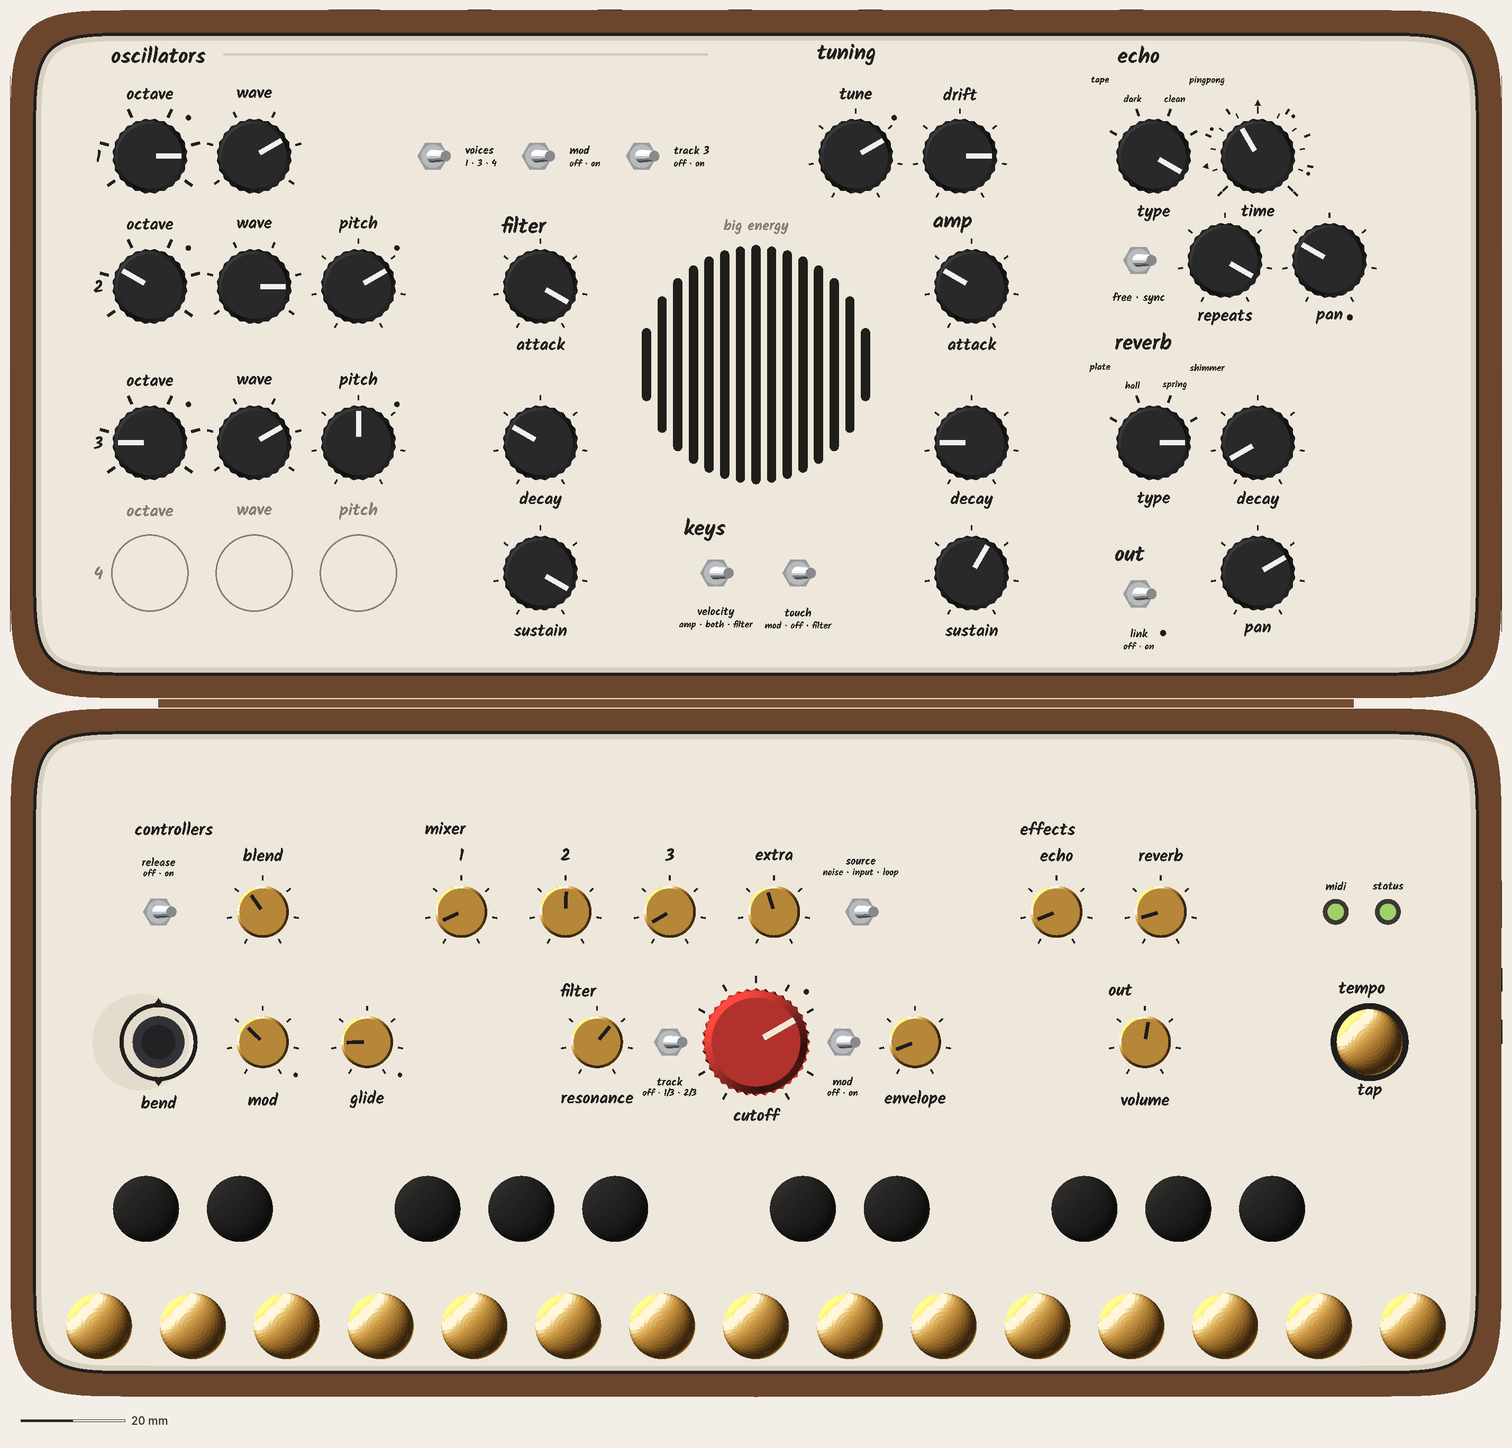
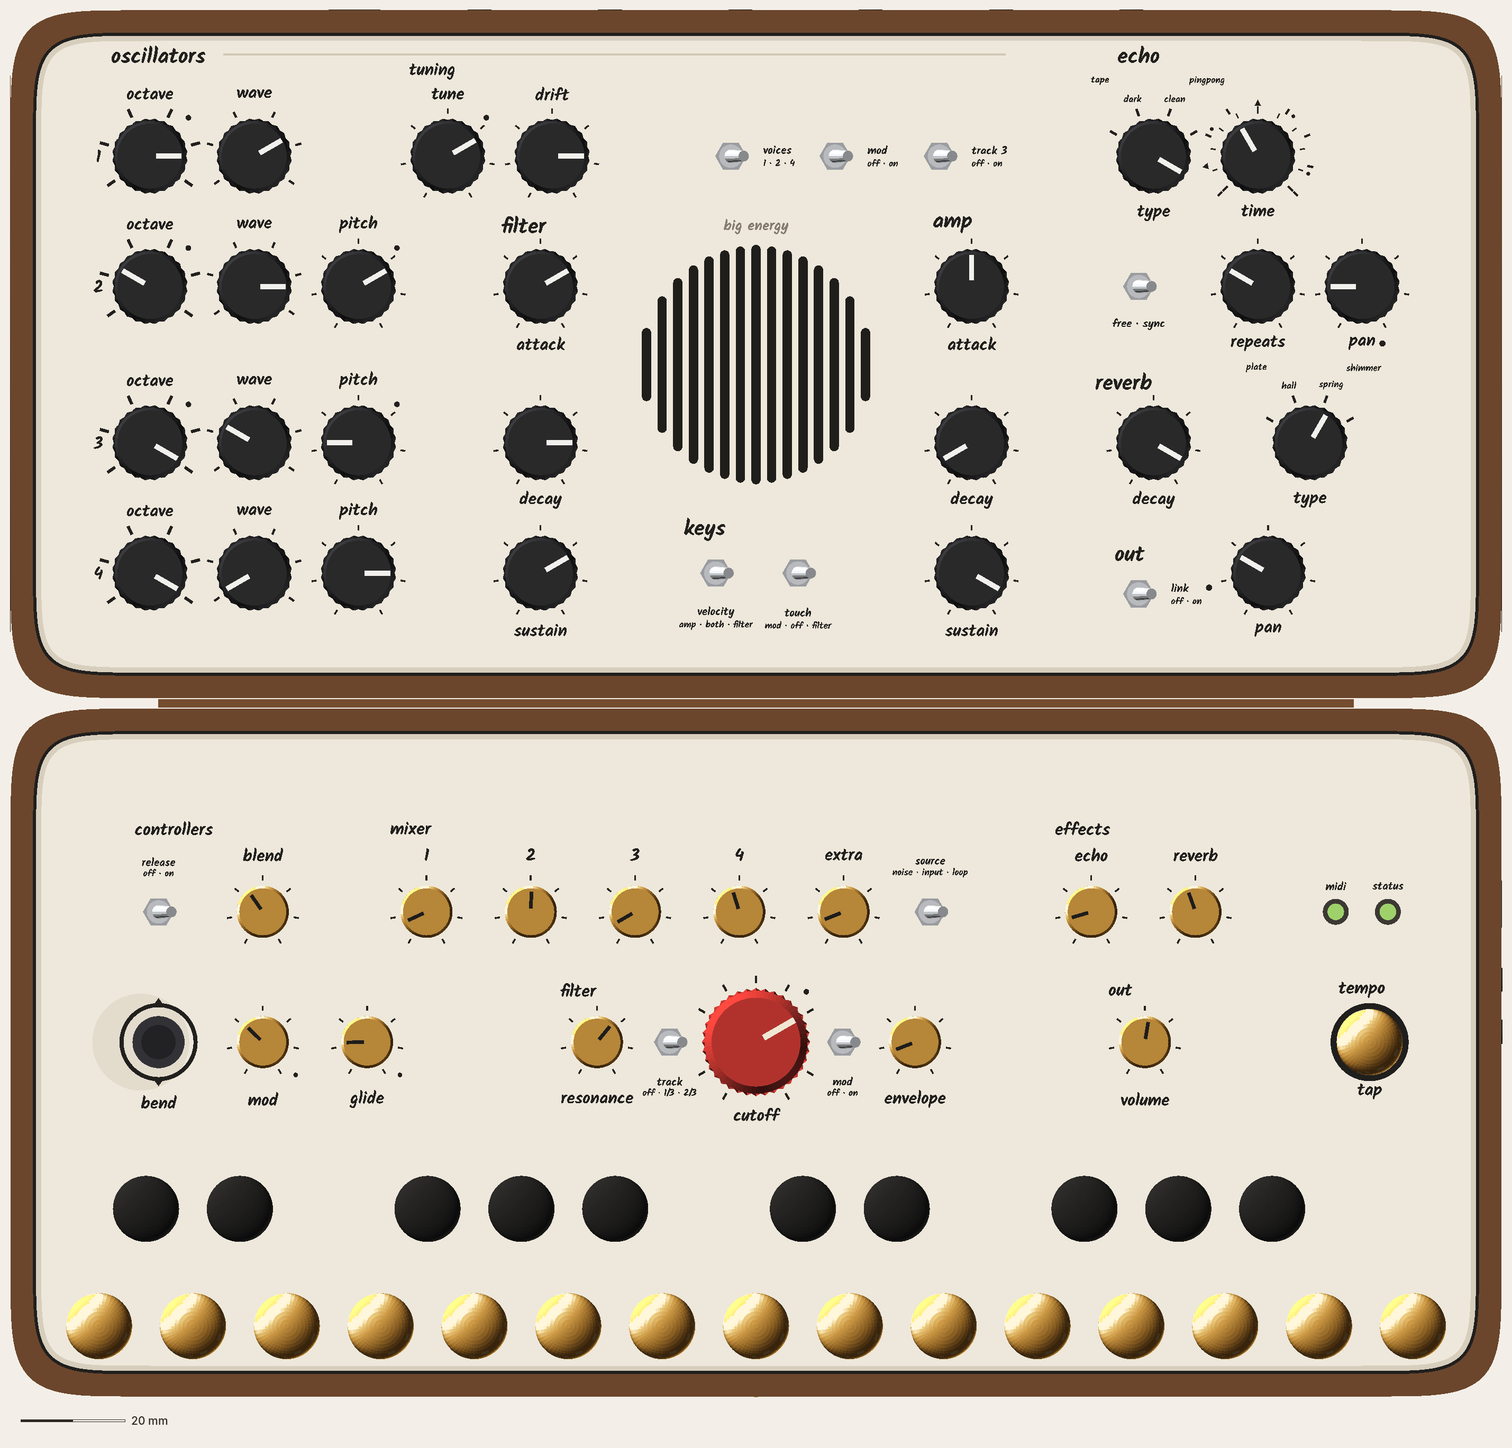
CATHEDRAL steer 5 fixes 6, visual: lay out 33229cd; P5O with / without VCO 4, P5R fallback top, P5O standing; reverb / tuning / fallback fits; look doc rev 9.5; real-Kalam 0

diff --git a/design/concepts/_mock-src/rb.py b/design/concepts/_mock-src/rb.py
@@ -1636,7 +1636,13 @@ def nv_overrides(lc):
         # (steer 5 fixes, a80d7c: P5O's headings now sit on top of their groups in the checker; the foot MOVE is gone)
         # (rev 9 real-Kalam heading fits now live in layout_check.py, d56403f)
         secs = list(lc.SECTIONS)
-        return list(lc.lid), list(lc.BREAKS), secs
+        lid = list(lc.lid)
+        if getattr(lc, "VARIANT", "") == "P5R" and getattr(lc, "KEYS_LINE", False):
+            # P5R fallback (keys on the switch line, d 89): the pair 0.6 higher; real Kalam put velocity's positions
+            # 0.91 under amp sustain's legend (for systems to fold)
+            lid = [(n, x, d + 0.6, r, k, lab, w) if n in ("VEL", "AFTERTOUCH") else (n, x, d, r, k, lab, w)
+                   for n, x, d, r, k, lab, w in lid]
+        return lid, list(lc.BREAKS), secs
     lid = [(n, x, d, r, k, lab, "left2") if (n == "OSC 3 CTL" and w == "right2") else (n, x, d, r, k, lab, w)
            for n, x, d, r, k, lab, w in lc.lid]
     return lid, list(lc.BREAKS), list(lc.SECTIONS)
@@ -1645,8 +1651,8 @@ def nv_fit_sections(lc, sections):
     """pass-through: visual's fit is in layout_check.py (6f7c036)."""
     return list(sections)
 
-LEGEND_FIT = {("P5O", "ECHO TIME"): 0.5}   # a9e2603 real Kalam: "time" sat 1.09 from repeats (now at x 232.95, d 84) below it
-P5O_HEAD_FIT = {}   # 528deea's fits are in the checker (a9e2603); "reverb" moved over the fan, so its +1.55 is gone
+LEGEND_FIT = {}   # (echo "time" +0.5 is the checker's LEGEND_NUDGE since 33229cd; read below)
+P5O_HEAD_FIT = {"reverb": (-3.8, 1.55)}   # 33229cd: "reverb" over decay again: +1.55 clears decay's top tick (real 0.00); -3.8 hangs it into the gutter exactly like "out", so it sits >= 20 from the type fan (systems' zone rule)
 def nv_heads_left(lc, sections):
     """steer 5 score fixes 2. P5O: systems' SECTIONS_LEFT (every heading top-left of its group), with the visual's
     real-Kalam fits (P5O_HEAD_FIT, for systems to fold): "filter" / "amp" +0.8 ("amp"'s descender sat 0.24 from the
@@ -1667,6 +1673,8 @@ def nv_fit_subheads(lc):
     """steer 4's fit is in layout_check.py (6f7c036). Steer 5, P5R: "filter" / "amp" on the "envelopes" heading line
     (see below), centred over their groups: at d 79.5 they sat 0.5 from the "decay" legends (real Kalam)."""
     subs = list(getattr(lc, "SUBHEADS", []))
+    if getattr(lc, "VARIANT", "") == "P5O":       # 33229cd: "tuning" +0.2 (real Kalam: 1.37 over "tune")
+        subs = [(t, x, d + 0.2) if t == "tuning" else (t, x, d) for t, x, d in subs]
     if getattr(lc, "VARIANT", "") == "P5R":
         subs = [(t, x, 81.5) for t, x, d in subs]     # 2 mm higher than systems' 79.5: clear of the "decay" legends,
                                                       #   still below the oscillator switches (at 91.8 they read as
@@ -1838,7 +1846,7 @@ class Nave(Cathedral):
     # steer 5 fixes 3 (name positions, lid d, override NAME_BOX): P5R under the window at d 38.0 (echo pan moved to
     # x 147.7, so at 34.0 the name sat on its top tick); P5O ABOVE the window at d 90.5, a nameplate over the grille
     # (under it, the name came 1.5 from "keys", and the new 5 mm legend-to-heading rule can't be met there)
-    NAME_AT = {}   # (both now in layout_check.py's NAME_BOX, a9e2603)
+    NAME_AT = {"P5R-line": 8.5}   # (P5O / P5R are in layout_check.py's NAME_BOX, a9e2603; the P5R fallback is visual's)
     NAME_FIT = {}
     NAME_D5 = {"P5O": 37.3, "P5R": 34.0}   # steer 5: the name's centre line (lid d), on the axis under the window
     def name_mark(self, gz):
@@ -1850,6 +1858,8 @@ class Nave(Cathedral):
         if self._sq():
             nb = getattr(self.lc, "NAME_BOX", None)
             v_ = getattr(self.lc, "VARIANT", "")
+            if v_ == "P5R" and getattr(self.lc, "KEYS_LINE", False):
+                v_ = "P5R-line"           # fallback: at 34.0 it read "big energy hall"; at 31 it labelled reverb type. At the foot (d 8.5), the foundation stone
             d = self.NAME_AT[v_] if v_ in self.NAME_AT else (nb[2] if nb else self.NAME_D5.get(getattr(self.lc, "VARIANT", ""), self.lc.WIN[1] - self.lc.WIN[2] - 3.7))
             return txt(143.0, self.LY0 + d, gz + 0.01, self.NAME, 2.0, INK_LIGHT, font=HAND) if self.NAME else ""
         nz = self.LY0 + 2.2
@@ -1935,7 +1945,8 @@ class Nave(Cathedral):
                 sz = lc.LS if k == "k" else lc.LS * 0.85
                 bx = lc.tbox(x, d, lab, sz, where, r)
                 cy = (bx[1] + bx[3]) / 2 + (lc.BEHIND_EXTRA if where == "behind" else 0.0)
-                cy += LEGEND_FIT.get((getattr(lc, "VARIANT", ""), n), 0.0)
+                cy += LEGEND_FIT.get((getattr(lc, "VARIANT", ""), n), 0.0) + \
+                      (getattr(lc, "LEGEND_NUDGE", {}).get(n, 0.0) if getattr(lc, "VARIANT", "") == "P5O" else 0.0)
                 s += txt(x, L0 + cy, z, lab, sz, ink, font=st.font)
         heads, subs, ha = nv_heads_left(lc, sections)
         for t, x, d in heads:                            # steer 5 score fixes 2: P5O's headings top-left of their groups
@@ -2037,6 +2048,17 @@ class Nave(Cathedral):
             s += led(x, y, z, col="#9fd36b" if x > 143 else "#efe3c8")
         return s
 
+def nave_env(lid, **env):
+    """a Nave built with layout_check env switches (CATHEDRAL_VCO4, CATHEDRAL_P5R_KEYS) set only while it loads."""
+    old = {k: os.environ.get(k) for k in env}
+    os.environ.update(env)
+    try:
+        return Nave(lid=lid, spine="dark")
+    finally:
+        for k, v in old.items():
+            if v is None: os.environ.pop(k, None)
+            else: os.environ[k] = v
+
 def jobs(SZ):
     ch, dp = Chamber(), Diptych()
     D = ch.D; OPEN = 2 * D + 2
@@ -2080,6 +2102,10 @@ def jobs(SZ):
         **{f"rb_nv5_{v}_lidtop": (lambda v=v: (lambda n: top4(n.model(True), f"rb_nv5_{v}_lidtop", -2, n.LY0 - 2, W + 2, n.LY0 + n.D + 2, px_per_mm=15, grain_classes=()))(Nave(lid="P5" + v, spine="dark"))) for v in "OR"},
         **{f"rb_nv5_{v}_top": (lambda v=v: (lambda n: top4(n.model(True), f"rb_nv5_{v}_top", -2, -2, W + 2, 2 * n.D + 4, px_per_mm=8, grain_classes=()))(Nave(lid="P5" + v, spine="dark"))) for v in "OR"},
         **{f"rb_nv5_{v}_stand": (lambda v=v: (lambda n: shot4(n.model("stand"), fp_rect(0, 0, W, n.D + 64), f"rb_nv5_{v}_stand", size=SZ, az=-32, el=24, dist=860, center=(143, n.D * 0.6, 58), grain_classes=(), wood=True) and relight(os.path.join(OUT, f"rb_nv5_{v}_stand.png")))(Nave(lid="P5" + v, spine="dark"))) for v in "OR"},
+        # the owner sees every option: P5O with VCO 4 fitted, P5R's keys-on-the-switch-line fallback
+        "rb_nv5_O4_top": lambda: (lambda n: top4(n.model(True), "rb_nv5_O4_top", -2, -2, W + 2, 2 * n.D + 4, px_per_mm=8, grain_classes=()))(nave_env("P5O", CATHEDRAL_VCO4="1")),
+        "rb_nv5_O4_stand": lambda: (lambda n: shot4(n.model("stand"), fp_rect(0, 0, W, n.D + 64), "rb_nv5_O4_stand", size=SZ, az=-32, el=24, dist=860, center=(143, n.D * 0.6, 58), grain_classes=(), wood=True) and relight(os.path.join(OUT, "rb_nv5_O4_stand.png")))(nave_env("P5O", CATHEDRAL_VCO4="1")),
+        "rb_nv5_Rfb_top": lambda: (lambda n: top4(n.model(True), "rb_nv5_Rfb_top", -2, -2, W + 2, 2 * n.D + 4, px_per_mm=8, grain_classes=()))(nave_env("P5R", CATHEDRAL_P5R_KEYS="line")),
         "rb_nv5_closed": lambda: (lambda n: ld.shot(n.model(False, walnut=WAL_R), fp_rect(0, 0, W, n.D), "rb_nv5_closed", size=SZ, az=152, el=34, dist=760, center=(143, n.D * 0.55, 26), grain_classes=()))(Nave(lid="P5O", spine="dark")),
         # steer 5 fixes: the spine standing (from behind and below the joint) and open flat (a back corner, close)
         "rb_nv5_spine_stand": lambda: (lambda n: shot4(n.model("stand"), fp_rect(0, 0, W, n.D + 64), "rb_nv5_spine_stand", size=SZ, az=-28, el=46, dist=420, center=(95, n.D + 2, 24), grain_classes=(), wood=True) and relight(os.path.join(OUT, "rb_nv5_spine_stand.png"), lo=70, ymax=0.64))(Nave(lid="P5O", spine="dark")),

diff --git a/design/branches/concepts/cathedral/how-it-looks-and-feels.md b/design/branches/concepts/cathedral/how-it-looks-and-feels.md
@@ -1,4 +1,4 @@
-# CATHEDRAL: how it looks and feels (visual, rev 9.4: steer 5 fixes 5, both options side by side)
+# CATHEDRAL: how it looks and feels (visual, rev 9.5: steer 5 fixes 6, every layout option, both options side by side)
 
 Seed: CHAMBER rev 2 + FOLD-105 v1.1. Owner record: `design/owner.md` (14:12 onwards). Read with `how-it-works.md`, where systems owns the geometry; **§19** is this revision's layout (commit a80d7c: equal-gutter base, P5O as columns with a VCO 4 slot, P5R with out at the end of its bottom row, pivots inboard, the gap rule). The director's steer-5 scores (P5R 8, P5O 6, base 7) are in `design/notes/director.md`; then P5R 9, P5O 8. Rev 9.1 lays out systems' fixes for the 10 (f8ba494): P5R's oscillator switches on one line under the VCOs; P5O's headings top-left, every VCO reading octave · wave · pitch, tune · drift as a headed "tuning" pair after VCO 1, and out in R4's right slot.
 
@@ -15,14 +15,23 @@ Seed: CHAMBER rev 2 + FOLD-105 v1.1. Owner record: `design/owner.md` (14:12 onwa
 ### The two lids, side by side
 <div style="display:grid;grid-template-columns:1fr 1fr;gap:1rem;align-items:start">
 <figure>
-<img src="img/cathedral-s5-P5O-top-9.9px-per-mm.png" alt="Exact top view of P5O open flat. Lid: an oscillator block at the left, each row reading octave, wave, pitch, numbered 1 to 3 in the margin, with a fourth row drawn as three pale outlined circles and pale words for VCO 4; on the top row, after VCO 1, the voices, mod and track 3 switches under a hairline running on from the oscillators heading, then tune and drift headed tuning, then echo type and time; a filter column down the window's left and an amp column down its right; the name, big energy, in light ink above the window; the keys switches under it; on the right, echo's free · sync switch, repeats and pan, then reverb (decay, type), then out (the link switch, then pan). Every heading starts at its group's top left and every legend in the right block sits under its control. Base: two rows, levels behind and what the hands ride in front.">
-<figcaption><b>P5O, his lid</b> (exact, scale bar 20 mm). Left to right in columns: oscillators (with tuning after VCO 1) → filter → (window) → amp → echo, reverb, out. <b>Every heading starts at the top left of its group.</b> The hairline from "oscillators" stops at "tuning" and resumes over the oscillator switches. The pale fourth row is <b>VCO 4's slot, drawn as a ghost</b>: built without it, that area is plain plate. <b>VCO 4</b> (optional, his call): ≈ +$20–30, ≈ −0.5 h of battery, the Daisy's last pin, and no closing cost. <b>P5O's column layout</b>, with or without VCO 4, needs the bend stick lowered to 9.0 mm to close at 55.2 mm (as is: 58.8).</figcaption>
+<img src="img/cathedral-s5-P5O-top-9.9px-per-mm.png" alt="Exact top view of P5O with the fourth oscillator fitted, open flat. Lid: four oscillator rows at the left, each reading octave, wave, pitch, numbered 1 to 4 in the margin; on the top row, after VCO 1, tune and drift under the sub-heading tuning, then the voices (1 · 2 · 4), mod and track 3 switches, all under one oscillators heading with a hairline; a filter column down the window's left and an amp column down its right; the name, big energy, in light ink above the window; the keys switches under it; on the right, echo (type, time; free · sync, repeats, pan), reverb (decay, type) and out (the link switch with its words beside it, then pan). Every heading starts at its group's top left. Base: two rows, levels behind and what the hands ride in front.">
+<figcaption><b>P5O, his lid, with VCO 4</b> (exact, scale bar 20 mm). Left to right in columns: oscillators (tuning beside VCO 1) → filter → (window) → amp → echo, reverb, out. Every heading starts at its group's top left; "reverb" and "out" hang 3.8 mm into the gutter. With four oscillators, voices reads 1 · 2 · 4. <b>VCO 4</b> (optional, his call): ≈ +$20–30, ≈ −0.5 h of battery, the Daisy's last pin, and no closing cost. <b>P5O's column layout</b>, with or without VCO 4, needs the bend stick lowered to 9.0 mm to close at 55.2 mm (as is: 58.8).</figcaption>
+</figure>
+<figure>
+<img src="img/cathedral-s5-P5O-noVCO4-top-9.9px-per-mm.png" alt="Exact top view of P5O without the fourth oscillator: the same lid, but the three oscillator rows spread down the full height at equal spacing, so no empty slot is left at the bottom left; voices reads 1 · 3 · 4.">
+<figcaption><b>P5O without VCO 4</b> (exact). The three oscillator rows spread over the same height (d 104 / 69 / 34), so the block fills its column and no slot is left empty. Everything else is as above; voices reads 1 · 3 · 4.</figcaption>
 </figure>
 <figure>
 <img src="img/cathedral-s5-P5R-top-9.9px-per-mm.png" alt="Exact top view of P5R open flat. Lid, top row: oscillators 1, 2 and 3 (octave, wave, pitch), numbered in the margin, then tuning (tune, drift) behind a short engraved break; under each VCO its own switch: voices, mod, track. Middle row, symmetric about the slotted window: the filter envelope on the left and the amp envelope on the right (attack, decay, sustain), under the envelopes heading. Bottom row, with its headings on one line 3 mm above the type knobs' fan words: keys (velocity and touch, their names and positions above each switch), echo (type, time, free · sync, repeats, pan), reverb (type, decay), out (pan, link). The name, big energy, in light ink under the window. Same two-row base as P5O.">
 <figcaption><b>P5R, the rule in rows</b> (exact, scale bar 20 mm). Top to bottom: oscillators ‖ tuning, with each VCO's switch under it; filter · (window) · amp, symmetric about the window; keys → echo → reverb → out, with the bottom row's headings on one line above the fan words. The reading wraps from amp to keys, which feed both envelopes. Headings are centred over their groups.</figcaption>
 </figure>
 </div>
+
+<figure>
+<img src="img/cathedral-s5-P5R-fallback-top-9.9px-per-mm.png" alt="Exact top view of P5R's fallback: the same rows, but the velocity and touch switches sit on the switch line under tune and drift, the bottom row reads echo, reverb, out with wide gaps, and the name sits at the foot of the lid on the axis.">
+<figcaption><b>P5R fallback: keys on the switch line</b> (exact). Velocity and touch sit under tune and drift. Row C goes back to echo · reverb · out, with gutters of 41.9 mm against rows A and B's ≈ 22.7. <b>Its costs:</b> there's no room for a "keys" heading, so the pair reads as tuning's, and the bottom row is sparse. The name moves to the foot of the lid, on the axis: under the window it read with reverb's fan.</figcaption>
+</figure>
 
 <figure>
 <img src="img/cathedral-s5-P5R-standing.jpg" alt="P5R standing at 120 degrees on its brass stays, seen from the front left: the cream lid with oscillators and tuning across the top, the filter and amp envelopes either side of the slotted window, and keys, echo, reverb and out along the bottom row; the base below with its two rows of gold knobs, the red cutoff dial and the brass and black keys.">
@@ -80,22 +89,19 @@ Seed: CHAMBER rev 2 + FOLD-105 v1.1. Owner record: `design/owner.md` (14:12 onwa
 - **Lid, the sound:** oscillators 1 · 2 · 3 [· 4] (octave, pitch, wave; tune and drift by them; voices, mod, track); envelopes, filter and amp (attack, decay, sustain); keys (velocity, touch); echo (type, time with free · sync, repeats, pan); reverb (type, decay); out (pan, link).
 - **Base, the hands and the levels:** rear row: controllers (release, blend), mixer 1 · 2 · 3 · extra with source (noise · input · loop), effects (echo, reverb), the midi and status lights. Front row: controllers (bend, mod, glide), filter (resonance, track, **cutoff**, mod, envelope), out (volume), tempo (tap).
 
-### Checks (rev 9.3, systems 7595f7d)
-- **Real Kalam:** 0 for P5O, P5O with VCO 4, and P5R. **Systems' rules on the visual's positions:** 0 for all three. `layout_check.py`: 0.
-- **The director's tests** (real Kalam on the rendered lid):
-  - **P5R:** all pass: no heading on a fan-word line, no phrases, ≥ 5 mm from a legend to the next heading.
-  - **P5O (systems a9e2603):** all pass. Reverb is back to type · decay with its heading over the fan, and echo's second row is at d 84, with repeats and pan half a column right. Visual fit: echo's "time" legend +0.5 (real Kalam put it 1.09 from repeats below it). "track 3" is approved and drawn.
+### Checks (rev 9.5, systems 33229cd)
+- **Real Kalam:** 0 for P5O with and without VCO 4, P5R, and P5R's fallback. **Systems' rules on the visual's positions:** 0 for all four, including the fan-zone rule.
+- **The director's tests:** P5R and its fallback pass. In P5O, "reverb" shares a height band with type's inner fan words "hall" / "spring", 27–31 mm to its right, with the type knob's top between them (systems' flagged risk). **By eye in the real font it reads as a heading over decay, not as "reverb hall".** The gap is more than three times the 8 mm phrase distance, and the fan words are visibly the knob's. It's kept, and noted.
 - **Visual fits, for systems to fold:**
-  - P5O echo "time" legend +0.5 (1.09 from repeats, a9e2603);
-  - P5O "out" +0.3 (1.42 from link's nut);
-  - "above2" legends (P5R keys): block bottom TGL + 2.35 over the nut, positions then name, leading **1.25** (the checker's box uses 0.9; at 0.9, "velocity"'s descender met its positions);
-  - the name stays at P5R d 38.0, and P5O d 90.5 above the window (NAME_BOX still has 34.0 / 37.6).
+  - P5O "reverb" −3.8 x / +1.55 d: +1.55 clears decay's top tick (real 0.00); −3.8 hangs it into the gutter like "out", so it's ≥ 20 from the type fan's "plate" (the zone rule);
+  - P5O "tuning" sub-heading +0.2 (1.37 over "tune");
+  - P5R fallback: velocity / touch +0.6 d (velocity's positions sat 0.91 over amp sustain's legend), and the name at d 8.5, the foot, on the axis.
 
 ### Open
-1. **P5O:** echo's second row now steps half a column right of its first. It reads as one group because of the shared heading, but it's the one place on the lid that leaves the column grid.
-2. **P5R:** "keys" heads its pair from the shared row-C heading line. With the legends above the switches it now sits 4 mm over "velocity", which is tighter and reads better.
-3. **P5O:** "out" hangs 3.8 mm into the gutter.
-4. **Owner:** P5O or P5R; the 4th analog oscillator (P5O only); "amp controls left to right"; D 132.
+1. **P5O:** "reverb" and the type fan share a height band at 27 mm (by eye: fine).
+2. **P5O, owner:** amp as a top row (systems is drawing variants).
+3. **P5R fallback:** the keys pair reads as tuning's (no room for its heading).
+4. **Owner:** P5O or P5R; VCO 4; D 132.
 5. **Eng:** the spine's fold in the 2.1 seam, and the corner pieces' joint at the seam.
 
 ## What CATHEDRAL does to the ideas

diff --git a/design/notes/visual.md b/design/notes/visual.md
@@ -1,5 +1,20 @@
 # Visual designer notes (instrument; working name retired)
 
+## CATHEDRAL steer 5 fixes 6 (2026-11-14 ~00:00): READ THIS FIRST
+- **Systems 33229cd (P5O):** tuning beside VCO 1 with a "tuning" sub-heading; echo row 2 at d 79; reverb reads decay · type; link's words beside; voices 1 · 2 · 4 with VCO 4. Without VCO 4, the rows spread to 104 / 69 / 34 (so no ghost any more). The stick is at 9.0 in both. LEGEND_NUDGE (time +0.5) is in the checker.
+- **rb.py:**
+  - `nave_env()` and jobs `rb_nv5_O4_top`, `rb_nv5_O4_stand` (VCO 4 fitted) and `rb_nv5_Rfb_top` (P5R keys on the line);
+  - legend nudges are read from `lc.LEGEND_NUDGE` (`LEGEND_FIT` emptied);
+  - `P5O_HEAD_FIT` reverb (−3.8, +1.55); P5O "tuning" sub +0.2;
+  - P5R fallback: keys +0.6, name d 8.5 (`NAME_AT["P5R-line"]`).
+- **Checks:** 0 everywhere (real Kalam, rules incl. zone). My 40 mm fan-line proxy still flags P5O's "reverb" vs "hall" / "spring" at 27–31 mm; by eye it's fine.
+- **Images:**
+  - `cathedral-s5-P5O-top-9.9px-per-mm.png` = WITH VCO 4 (fitted);
+  - NEW `cathedral-s5-P5O-noVCO4-top-9.9px-per-mm.png`;
+  - NEW `cathedral-s5-P5R-fallback-top-9.9px-per-mm.png`;
+  - `cathedral-s5-P5O-standing.jpg` (with VCO 4).
+- **Doc:** rev 9.5. **Expect:** systems' amp-top-row P5O variants.
+
 ## CATHEDRAL steer 5 fixes 5 (2026-11-13 ~23:20): READ THIS FIRST
 - **Systems a9e2603 (P5O only):** reverb is back to type · decay, its heading over the fan (d 68.5); echo row 2 at d 84, repeats / pan at 232.95 / 253; my 528deea numbers are folded (out +0.3, NAME_BOX 90.5 / 38.0, above2 leading).
 - **rb.py:** P5O_HEAD_FIT and NAME_AT emptied. New `LEGEND_FIT` {("P5O", "ECHO TIME"): +0.5}, because real Kalam put "time" 1.09 from repeats; it's for systems to fold.
